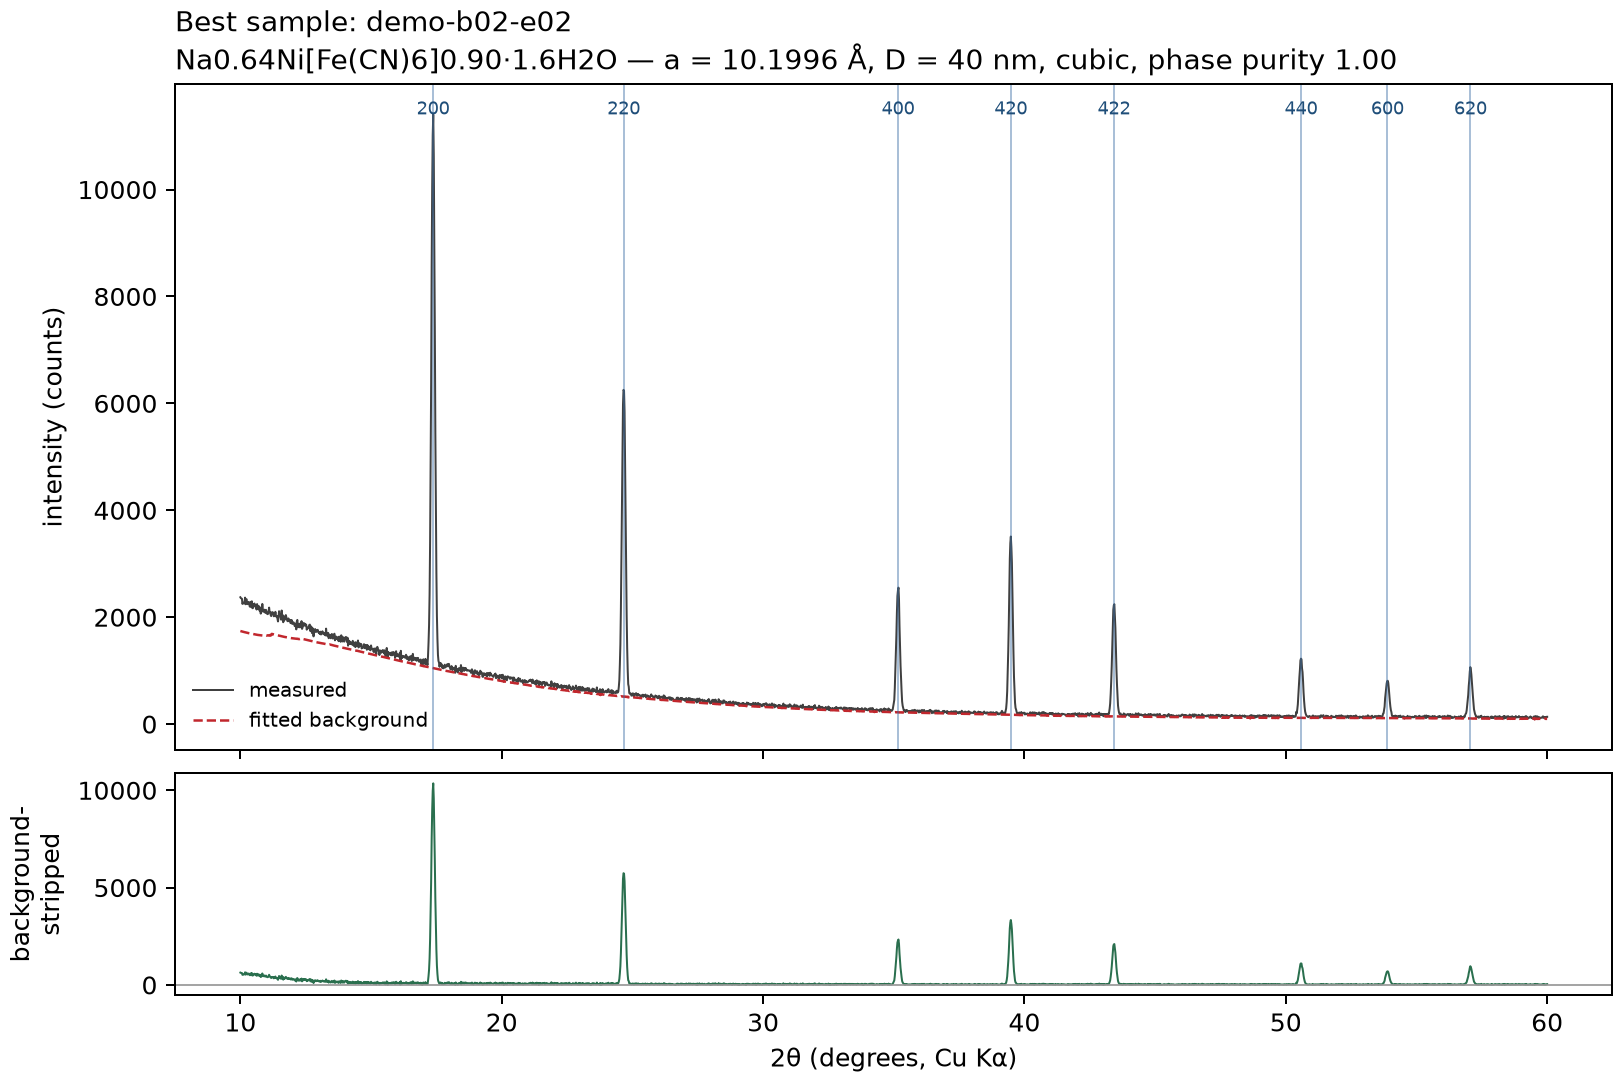
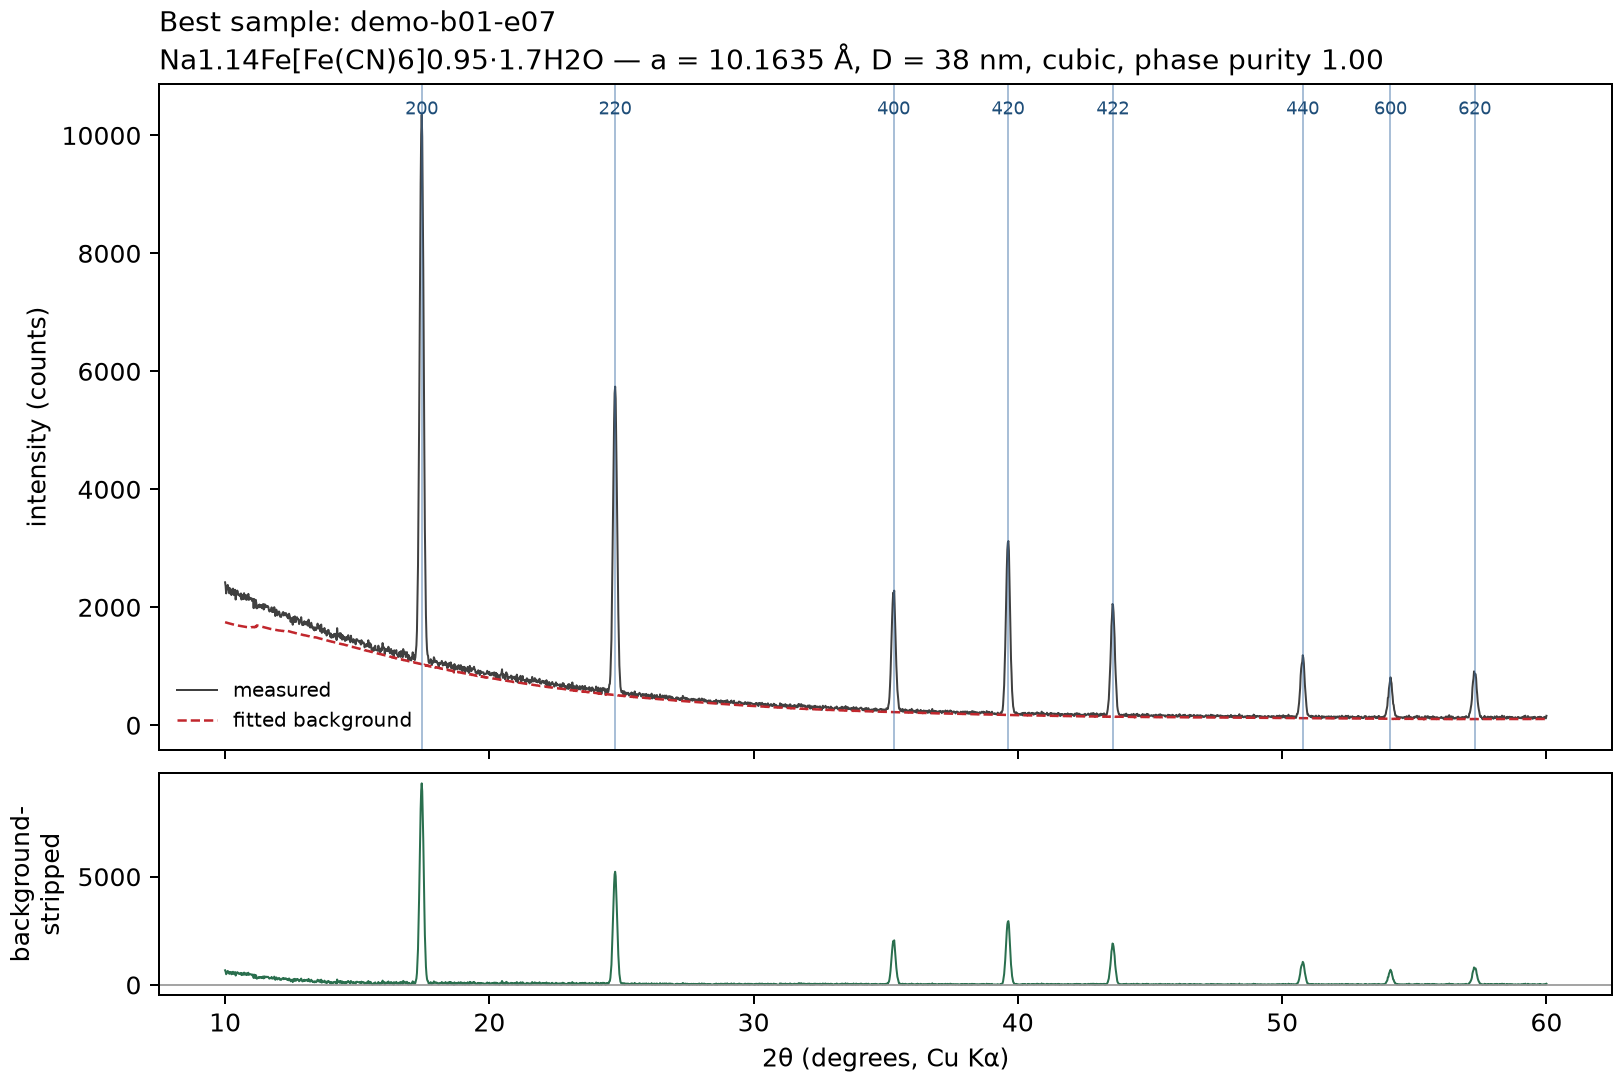
Revert lattice-composition QC check and Ni/Cu capacity cap
Keep only the NaCl design-space ceiling (3.5 M) from "Enhance chemistry
and physics logic".

- objectives: restore the per-metal lattice window check for every
  crystalline sample; the composition-based check used slopes the
  simulator does not follow and quarantined 37 % of random recipes
- spectra: drop the Ni/Cu redox cap from the capacity estimate; it was
  applied in the estimator only, so estimates read 15-17 % below the
  simulator's theoretical capacity
- docs: quick-start and API outputs and figures regenerated

diff --git a/pba_autoworkflow/analysis/objectives.py b/pba_autoworkflow/analysis/objectives.py
@@ -72,23 +72,12 @@ def quality_flags(desc: SampleDescriptors, params: SynthesisParameters
             if not math.isfinite(x.lattice_a_A):
                 flags.append("lattice constant not determined")
             else:
-                a0 = LATTICE_A0_A[params.metal]
-                comp = desc.composition
-                if comp and math.isfinite(comp.vacancy_fraction) and math.isfinite(comp.na_per_fu):
-                    # Empirical slopes: vacancies contract the lattice (~ -0.4 A / vac), sodium expands it (~ +0.1 A / Na)
-                    a_calc = a0 - 0.4 * comp.vacancy_fraction + 0.1 * comp.na_per_fu
-                    if not (a_calc - 0.1 <= x.lattice_a_A <= a_calc + 0.1):
-                        flags.append(
-                            f"lattice a={x.lattice_a_A:.3f} A inconsistent with composition "
-                            f"(expected ~{a_calc:.2f} A via Vegard's law)"
-                        )
-                else:
-                    lo, hi = LATTICE_WINDOW_A[params.metal]
-                    if not (lo <= x.lattice_a_A <= hi):
-                        flags.append(
-                            f"lattice a={x.lattice_a_A:.3f} A outside "
-                            f"[{lo:.2f}, {hi:.2f}] for {params.metal}"
-                        )
+                lo, hi = LATTICE_WINDOW_A[params.metal]
+                if not (lo <= x.lattice_a_A <= hi):
+                    flags.append(
+                        f"lattice a={x.lattice_a_A:.3f} A outside "
+                        f"[{lo:.2f}, {hi:.2f}] for {params.metal}"
+                    )
             if math.isfinite(x.fit_residual) and x.fit_residual > 0.12:
                 flags.append(f"indexing residual {x.fit_residual:.3f} deg")
             if math.isfinite(x.domain_size_nm) and not (1.0 <= x.domain_size_nm <= 400.0):

diff --git a/pba_autoworkflow/analysis/spectra.py b/pba_autoworkflow/analysis/spectra.py
@@ -119,11 +119,6 @@ def estimate_capacity_mAh_g(comp: CompositionDescriptors, domain_size_nm: float,
     q_theo = theoretical_capacity_mAh_g(
         metal, comp.na_per_fu, comp.vacancy_fraction, comp.water_per_fu
     )
-    # Apply redox cap: Ni and Cu PBAs have only 1 electrochemically active site (Fe)
-    if metal in ("Ni", "Cu") and comp.na_per_fu > 0:
-        active_na = min(comp.na_per_fu, 1.0 - comp.vacancy_fraction)
-        q_theo *= (active_na / comp.na_per_fu)
-
     if not math.isfinite(domain_size_nm) or domain_size_nm <= 0:
         return float("nan")
     kinetic = float(np.clip(1.06 / (1.0 + (domain_size_nm / 95.0) ** 1.7), 0.30, 1.0))

diff --git a/docs/guide/02-quickstart.md b/docs/guide/02-quickstart.md
@@ -35,26 +35,21 @@ pba-autoworkflow run --runs runs/demo --campaign-id demo --iterations 3 --batch-
 ```
 iteration 0: running 12 experiments (sobol)
   demo-b00-e01 failed — hardware: rx-01: over-temperature interlock tripped during ramp
-  demo-b00-e10 quarantined — lattice a=10.464 A inconsistent with composition (expected ~10.64 A via Vegard's law)
-iteration 0: HV=0.6416 (Δ+0.6416) best=0.3619 counts={'complete': 10, 'failed': 1, 'quarantined': 1} …
+iteration 0: HV=0.6416 (Δ+0.6416) best=0.3619 counts={'complete': 11, 'failed': 1} …
 iteration 1: running 8 experiments (qnehvi, replicate)
-  demo-b01-e02 quarantined — lattice a=10.157 A inconsistent with composition (expected ~10.26 A via Vegard's law)
   demo-b01-e05 failed — hardware: wu-01: pellet lost during decant
-  demo-b01-e07 quarantined — lattice a=10.163 A inconsistent with composition (expected ~10.29 A via Vegard's law)
-iteration 1: HV=0.7196 (Δ+0.0780) best=0.4028 counts={'complete': 5, 'quarantined': 2, 'failed': 1} …
+iteration 1: HV=0.7458 (Δ+0.1041) best=0.4165 counts={'complete': 7, 'failed': 1} …
 iteration 2: running 8 experiments (qnehvi, replicate)
-  demo-b02-e04 quarantined — lattice a=10.184 A inconsistent with composition (expected ~10.29 A via Vegard's law)
-  demo-b02-e07 quarantined — lattice a=10.185 A inconsistent with composition (expected ~10.29 A via Vegard's law)
-iteration 2: HV=0.7227 (Δ+0.0031) best=0.4044 counts={'complete': 6, 'quarantined': 2} …
+iteration 2: HV=0.7458 (Δ+0.0000) best=0.4165 counts={'complete': 8} …
 …
 best recipe:
-  metal                  Ni
-  c_metal_M              0.010000000000000004
+  metal                  Fe
+  c_metal_M              0.012345859114945736
   …
-  -> Na0.64Ni[Fe(CN)6]0.90·1.6H2O  capacity 36.0 mAh/g  yield 0.41
+  -> Na1.14Fe[Fe(CN)6]0.95·1.7H2O  capacity 65.9 mAh/g  yield 0.46
 platform reproducibility (relative SD over replicate groups):
   rsd_phase_purity         0.0000
-  rsd_crystallinity        0.0533
+  rsd_crystallinity        0.0751
   n_replicate_groups       1.0000
 ```
 
@@ -72,10 +67,7 @@ What happened:
   It can only rise or stay level as data accumulate.
 - Runs end in one of three states. **complete**: usable result. **failed**: an instrument fault,
   never counted against the recipe. **quarantined**: the data were produced but failed a physical
-  sanity check, so they are kept out of the model. Chapter 3 lists the checks. Here every
-  quarantine comes from the check of the lattice constant against the measured composition. The
-  simulator's lattice model does not follow that check's slopes, so on the simulated deck it
-  rejects some samples whose data are fine.
+  sanity check, so they are kept out of the model. Chapter 3 lists the checks.
 
 `--time-scale 0` skips all simulated instrument waiting. Use `2e-4` to see realistic contention
 between stations within seconds, or `1.0` for a full-length timing rehearsal.
@@ -99,7 +91,7 @@ pba-autoworkflow resume --runs runs/demo --iterations 1 --time-scale 0
 resumed demo with 28 experiments
 iteration 3: running 8 experiments (qnehvi, replicate)
   demo-b03-e01 failed — hardware: rx-01: over-temperature interlock tripped during ramp
-iteration 3: HV=0.7227 (Δ+0.0000) best=0.4044 counts={'complete': 7, 'failed': 1} …
+iteration 3: HV=0.7458 (Δ+0.0000) best=0.4165 counts={'complete': 7, 'failed': 1} …
 ```
 
 The resumed batch continues the numbering (iteration 3) and the model is rebuilt from the stored
@@ -115,14 +107,14 @@ pba-autoworkflow status --runs runs/demo
 ```
 campaign      demo
 experiments   36
-status        {'complete': 28, 'failed': 3, 'quarantined': 5}
+status        {'complete': 33, 'failed': 3}
 next batch    4
 
 device        calls   busy_s   failed
-  icp-01          33      2.3       0
-  wu-01          133      1.4       1
-  rx-01          140      1.1       2
-  lh-01          143      0.7       1
+  icp-01          33      2.4       0
+  wu-01          133      1.5       1
+  rx-01          140      1.2       2
+  lh-01          143      0.8       1
   xrd-01          34      0.0       1
 ```
 
@@ -150,7 +142,7 @@ best_pattern   runs/demo/report/best_pattern.png
 
 ![Campaign overview](img/quickstart_overview.png)
 
-*Top left: hypervolume against experiments run, rising from 0.642 to 0.723 over four batches.
+*Top left: hypervolume against experiments run, rising from 0.642 to 0.746 after the second batch and level after that.
 Top right: phase purity against crystallinity for every run, coloured by batch; open circles
 failed the yield constraint, and the red diamond marks the Pareto front. Most runs reach a phase
 purity of 1.0, so crystallinity is what separates them. Bottom left: run outcomes per batch.
@@ -160,9 +152,10 @@ throughput.*
 
 ![Best sample XRD pattern](img/quickstart_best_pattern.png)
 
-*The best sample, demo-b02-e02, Na<sub>0.64</sub>Ni[Fe(CN)<sub>6</sub>]<sub>0.90</sub>·1.6H<sub>2</sub>O
-(*a* = 10.1996 Å, single phase): measured pattern, fitted background, and the background-stripped
-pattern used for peak fitting.*
+*The best sample, demo-b01-e07, Na<sub>1.14</sub>Fe[Fe(CN)<sub>6</sub>]<sub>0.95</sub>·1.7H<sub>2</sub>O
+(*a* = 10.1635 Å, single phase): measured pattern, fitted background, and the background-stripped
+pattern used for peak fitting. Unindexed lines from a secondary phase, when present, are marked
+with orange triangles.*
 
 ## Command reference
 

diff --git a/docs/guide/04-python-api.md b/docs/guide/04-python-api.md
@@ -46,15 +46,15 @@ store.close()
 Output:
 
 ```
-iteration 0: HV=0.5721 (Δ+0.5721) best=0.3253 counts={'complete': 7, 'quarantined': 1} …
-iteration 1: HV=0.5780 (Δ+0.0059) best=0.3285 counts={'failed': 2, 'complete': 4} …
-iteration 2: HV=0.6550 (Δ+0.0770) best=0.3710 counts={'failed': 1, 'complete': 2, 'quarantined': 3} …
+iteration 0: HV=0.6712 (Δ+0.6712) best=0.3774 counts={'complete': 8} …
+iteration 1: HV=0.7051 (Δ+0.0340) best=0.3952 counts={'complete': 5, 'failed': 1} …
+iteration 2: HV=0.7176 (Δ+0.0125) best=0.4018 counts={'failed': 1, 'complete': 5} …
 
-hypervolume per iteration: [0.572, 0.578, 0.655]
-best: example-b02-e01 Mn Na0.73Mn[Fe(CN)6]0.92·1.4H2O
+hypervolume per iteration: [0.671, 0.705, 0.718]
+best: example-b02-e03 Cu Na0.96Cu[Fe(CN)6]0.95·1.6H2O
 ```
 
-All 20 experiments used only the four allowed metals, and none exceeded 80 °C (maximum 77.5 °C).
+All 20 experiments used only the four allowed metals, and none exceeded 80 °C (maximum 78.2 °C).
 
 `Campaign.run()` is a coroutine. Inside an existing event loop (for example Jupyter), use
 `await campaign.run()` instead of `asyncio.run(...)`.

diff --git a/docs/guide/03-concepts.md b/docs/guide/03-concepts.md
@@ -109,9 +109,7 @@ A run is quarantined when any of these hold:
 - no diffraction data; or, for a crystalline pattern, fewer than the required number of indexed
   reflections or no lattice constant. An **amorphous** product is not quarantined: it is a real
   outcome of the recipe and scores low on both objectives;
-- lattice constant outside the window for that metal (for example 10.18–10.88 Å for Mn), or
-  more than 0.1 Å from the value predicted from the measured composition
-  (*a*₀ − 0.4 *y* + 0.1 Na per formula unit);
+- lattice constant outside the window for that metal (for example 10.18–10.88 Å for Mn);
 - a large indexing residual, or an implausible domain size;
 - no elemental assay, or a vacancy fraction that the assay cannot determine;
 - Na above the charge-balance ceiling, or Fe/M above the framework stoichiometry;
